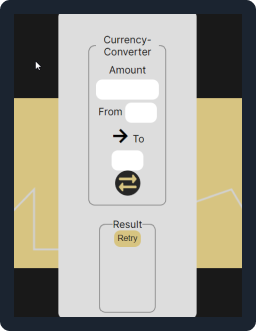
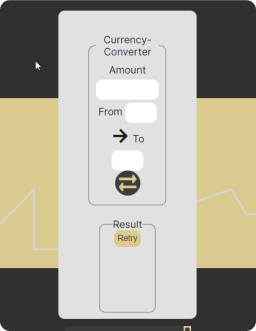
added footer (last page)

diff --git a/styles/style.css b/styles/style.css
@@ -6,6 +6,7 @@
 
 body {
 	font-family: "Advent Pro", sans-serif;
+	background-color: #1b2430;
 }
 
 a {
@@ -293,19 +294,87 @@ section {
 /* ^ THIRD PAGE */
 
 .projects-page {
+	display: flex;
+	justify-content: center;
 	background-color: #1c1c1c;
 	height: auto !important;
+	margin: 0 !important;
+	padding: 0 !important;
 }
 
 .project-section {
-	display: flex;
-	flex-direction: column;
-	color: #ffffff;
 	margin: 0;
+	padding: 0;
+	display: flex;
+	justify-content: center;
+	flex-direction: column;
+	height: auto;
+	width: auto;
 }
 
 .project-section button {
 	width: 100px;
 	height: 30px;
 	background-color: #f3c03d;
+}
+
+.project-ss {
+	text-align: center;
+	display: flex;
+	flex-direction: row;
+	margin: 68px;
+	font-size: 1.2rem;
+}
+
+.about-app {
+	color: #fefefe;
+	margin: 1rem;
+	background-color: #1b2430;
+	border-radius: 10px;
+	display: flex;
+	justify-content: center;
+	flex-direction: column;
+	align-content: flex-end;
+	padding: 1rem;
+	border: 1px solid green;
+}
+
+.project-img {
+	border-radius: 10px;
+}
+
+.currency-app-img {
+	border: 1rem solid #1b2430;
+}
+
+.hangman-app-img {
+	border: 1rem solid #fefefe;
+}
+
+.react-app-img {
+	border: 1rem solid #f3c03d;
+}
+
+.project-button-container button {
+	height: 40px;
+	width: 150px;
+	border-radius: 10px;
+	border: 0;
+	font-size: 1.5rem;
+	font-family: "Advent Pro", sans-serif;
+	margin-top: 1rem;
+	cursor: pointer;
+}
+
+.project-button-container button:hover {
+	background-color: #816797;
+	color: #fefefe;
+	transition: 0.3s;
+}
+
+.footer-page {
+	height: auto;
+	text-align: center;
+	color: #fefefe;
+	padding: 2rem;
 }

diff --git a/index.html b/index.html
@@ -94,7 +94,11 @@
 		<div class="projects-page page">
 			<section class="project-section">
 				<div class="project-ss">
-					<img src="img/currency-app.png" alt="#" />
+					<img
+						src="img/currency-app.png"
+						alt="#"
+						class="currency-app-img project-img"
+					/>
 					<article class="about-app">
 						<h2>CURRENCY EXCHANGE APP</h2>
 						<p>
@@ -106,8 +110,13 @@
 						</div>
 					</article>
 				</div>
+
 				<div class="project-ss">
-					<img src="img/currency-app.png" alt="#" />
+					<img
+						src="img/currency-app.png"
+						alt="#"
+						class="hangman-app-img project-img"
+					/>
 					<article class="about-app">
 						<h2>HANGMAN WITH CARS</h2>
 						<p>
@@ -119,8 +128,13 @@
 						</div>
 					</article>
 				</div>
+
 				<div class="project-ss">
-					<img src="img/currency-app.png" alt="#" />
+					<img
+						src="img/currency-app.png"
+						alt="#"
+						class="react-app-img project-img"
+					/>
 					<article class="about-app">
 						<h2>OTHER REACT APP</h2>
 						<p>
@@ -134,6 +148,9 @@
 				</div>
 			</section>
 		</div>
-		<div class="footer-page page"></div>
+		<br />
+		<div class="footer-page page">
+			<p>My Web Portfolio © 2022 Andrei Barut</p>
+		</div>
 	</body>
 </html>
